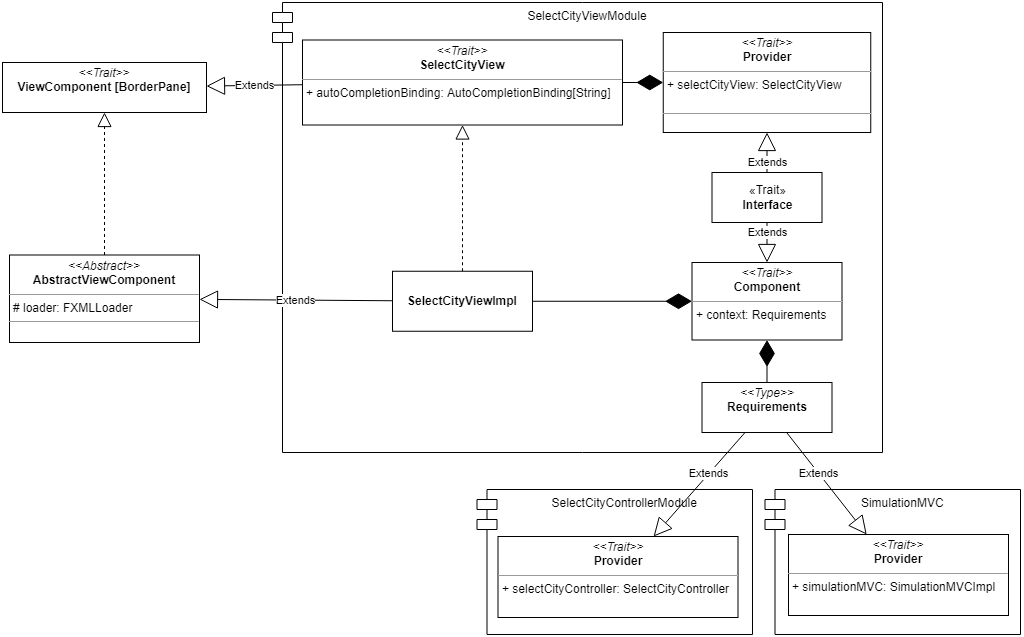
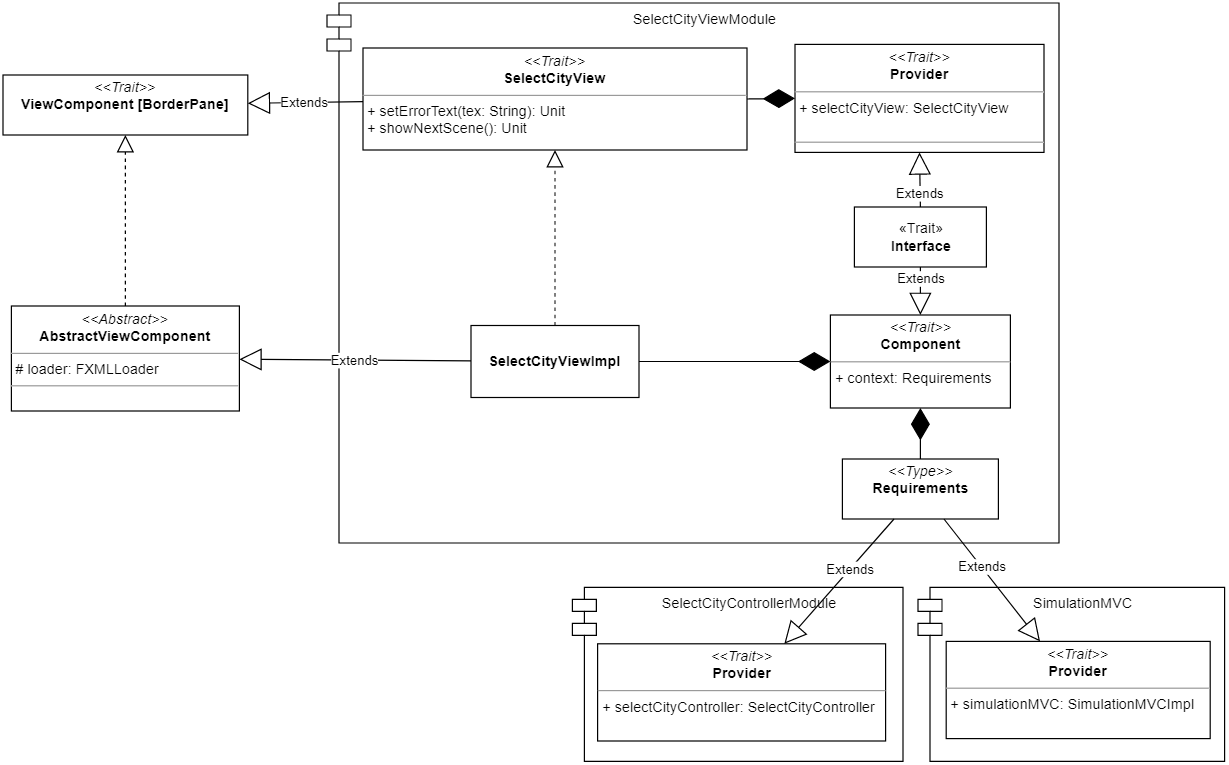
docs: select city componet doc

diff --git a/docs/04_detail_design.md b/docs/04_detail_design.md
@@ -35,19 +35,19 @@ Tutte le view estendono da tale classe, in modo da creare componenti modulari ed
 //TODO: SimulationMVC
 
 ### 4.2.2 View della simulatione
-La `SimulationViewModule` rappresenta la view principale dell'applicazione e si occupa di gestire: la scena, le _sotto-view_ e gli elementi generali delle parti in comune delle interfacce. Al suo interno troviamo:
+La `SimulationViewModule` [Fig. 4.2.2.1] rappresenta la view principale dell'applicazione e si occupa di gestire: la scena, le _sotto-view_ e gli elementi generali delle parti in comune delle interfacce. Al suo interno troviamo:
 -	il `trait SimulationView`, il quale include i metodi utili per l’avvio dell’applicazione, per gestire gli elementi comuni delle schermate e per passare da una _sotto-view_ all’altra;
--	la classe `SimulationViewImpl`, la quale implementa l’interfaccia `SimulationView` ed è racchiusa all’interno del `trait Component`. All’avvio dell’applicazione, viene creata prima di tutto l’interfaccia base dell’applicazione, rappresentata dal componente `BaseView` e poi successivamente viene impostata la prima schermata da mostrare nell’applicazione. `BaseView` è il componente che racchiude gli elementi che sono comuni a tutte le pagine ed offre metodi per la gestione di tali;
+-	la classe `SimulationViewImpl`, la quale implementa l’interfaccia `SimulationView` ed è racchiusa all’interno del `trait Component`. Quando l'applicazione viene lanciata, viene creata prima di tutto il componente base dell’applicazione, rappresentata dall'elemento `BaseView`. Nello specifico, `BaseView` è il componente che funge da contenitore delle _sotto-view_, racchiude gli elementi comuni a tutte le pagine e fornisce dei metodi per gestirli;
 -	il `trait Component`, il quale racchiude la classe `SimulationViewImpl`, seguendo il _Cake Pattern_;
 -	il `trait Provider`, il quale contiene l’oggetto `simulationView` che potrà essere utilizzato dall’MVC;
 -	il `trait Interface`, il quale estendendo sia da `Provider` e sia da `Component`, offre la possibilità ai componenti che lo estendono di accedere alla `simulationView`. 
 
 <div align="center">
   <img src="img/simulation_view.png" />
-  <p> Fig. 4.3.2.1 - SimulationViewModule </p>
+  <p> Fig. 4.2.2.1 - SimulationViewModule </p>
 </div>
 
-[Fig. 4.3.2.1]: img/simulation_view.png
+[Fig. 4.2.2.1]: img/simulation_view.png
 
 ### 4.2.3 SimulationController
 // TODO
@@ -61,7 +61,65 @@ Uno dei requisiti dell'applicazione è quello di permettere all'utente di person
 Al fine di soddisfare queste funzionalità sono stati sviluppati i seguenti elementi dell'architettura.
 
 ### 4.3.1 Selezione della città
-//TODO Elena
+La prima schermata che viene presentata all’utente è quella di selezione della città: verrà mostrata all’utente una serie di città selezionabili, permettendo di effettuare una ricerca con un'auto completamento del testo.
+
+Considerando che per la realizzazione di questa parte richiede sia una _view_ e sia un _model_ con cui ottenere i dati delle città, si è deciso di seguire il _pattern MVC_ e il _Cake pattern_, realizzando l’elemento `SelectCityMVC` con i rispettivi sotto moduli.
+
+In particolare, come illustrato nella figura [Fig. 4.3.1.1], la classe `SelectCityMVCImpl` comprende i seguenti componenti: `SelectCityModel`, `SelectCityController`, `SelectCityView` e `SimulationMVC`.
+Tale classe verrà istanziata all’avvio dell’applicazione e grazie al _cake pattern_, i suoi componenti riceveranno automaticamente tutte le dipendenze di cui hanno bisogno.
+
+<div align="center">
+  <img src="img/select_city_MVC.png" />
+  <p> Fig. 4.3.1.1 - MVC per la selezione della città </p>
+</div>
+
+[Fig. 4.3.1.1]: img/select_city_MVC.png
+
+### Model per la selezione della città
+
+Il model per la selezione della città viene racchiuso all'interno del modulo `SelectCityModelModule` ed è costituito dai seguenti elementi:
+-	il `trait SelectCityModel`, il quale espone i diversi metodi utili per effettuare la ricerca delle città;
+-	la classe `SelectCityModelImpl`, la quale implementa l’interfaccia `SelectCityModel` ed è racchiusa all’interno del `trait Component`;
+-	il `trait Provider`, il quale contiene l’oggetto `selectCityModel` che potrà essere utilizzato dall’MVC;
+-	il `trait Interface`, il quale estendendo sia da `Provider` e sia da `Component`, offre la possibilità ai componenti che lo estendono di accedere al model. 
+
+<div align="center">
+  <img src="img/select_city_model.png" />
+  <p> Fig. 4.3.1.2 - Model per la selezione della città </p>
+</div>
+
+[Fig. 4.3.1.2]: img/select_city_model.png
+
+### Controller per la selezione della città
+Il controller per la selezione della città è racchiuso all’interno del modulo `SelectCityControllerModule` [Fig. 4.3.1.3], comprende:
+-	il `trait SelectCityController`, il quale rappresenta l’interfaccia del controller ed espone diversi metodi per rispondere alle esigenze della _view_, interagendo con il _model_
+-	la classe `SelectCityControllerImpl`, la quale contiene l'implementazione dell’interfaccia `SelectCityController`. Una volta che l'utente avrà selezionato una città, il controller procederà alla creazione dell'oggetto Environment, che verrà poi salvato nel componente superiore SimulationMVC.
+-	il `trait Component`, il quale contiene un campo `context` di tipo `Requirements` che viene utilizzato per specificare le dipendenze che legano alla _View_, al _Model_ e anche all’oggetto superiore `simulationMVC`.
+-	il `trait Provider`, il quale contiene l’oggetto `selectCityController` che potrà essere utilizzato dall’MVC;
+-	il `trait Interface`, il quale estendendo sia da `Provider` e sia da `Component`, offre la possibilità ai componenti che lo estendono di accedere al controller.
+
+<div align="center">
+  <img src="img/select_city_controller.png" />
+  <p> Fig. 4.3.1.3 - Controller per la selezione della città </p>
+</div>
+
+[Fig. 4.3.1.3]: img/select_city_controller.png
+
+### View per la selezione delle città
+La view per la selezione delle città viene racchiusa nel modulo `SelectCityViewModule` [Fig. 4.3.1.4]. Al suo interno troviamo:
+-	il `trait SelectCityView`, il quale rappresenta l’interfaccia della _view_ e che detiene metodi che possono essere richiamati sulla _view_. Tale interfaccia, come tutti gli altri, estende da `ViewComponent`;
+-	la classe `SelectCityViewImpl`, è l'implementazione dell’interfaccia, racchiusa all’interno del trait `Component`. Tale classe rappresenta anche il _controller_ dell’FXML associato, infatti estendendo da `AbstractViewComponent`, contiene già la logica necessaria al caricamento del file;
+-	il `trait Component`, il quale presenta il campo context di tipo `Requirements`, dove cattura le dipendenze necessarie alla view.
+-	il `trait Provider`, il quale offre l’istanza del l’oggetto `selectCityView` che potrà poi essere utilizzato nell’MVC;
+-	il `trait Interface`, è l’interfaccia che potrà essere utilizzata dall’MVC per avere la view.
+
+<div align="center">
+  <img src="img/select_city_view.png" />
+  <p> Fig. 4.3.1.4 - View per la selezione della città </p>
+</div>
+
+[Fig. 4.3.1.4]: img/select_city_view.png
+
 
 #### Environment
  `Environment` è la componente del sistema che rappresenta l'ubicazione della serra.  Il suo scopo è quello di, una volta selezionata la città, reperire le previsioni meteorologiche previste per la giornata in cui si svolge la simulazione. Le informazioni così ottenute vengono poi messe a disposizione dell'applicazione al fine di aggiornare i parametri ambientali durante tutto lo svolgimento della stessa. I parametri ambientali influenzeranno i parametri rilevati all'interno di ogni area, secondo le formule implementate in ogni sensore.
